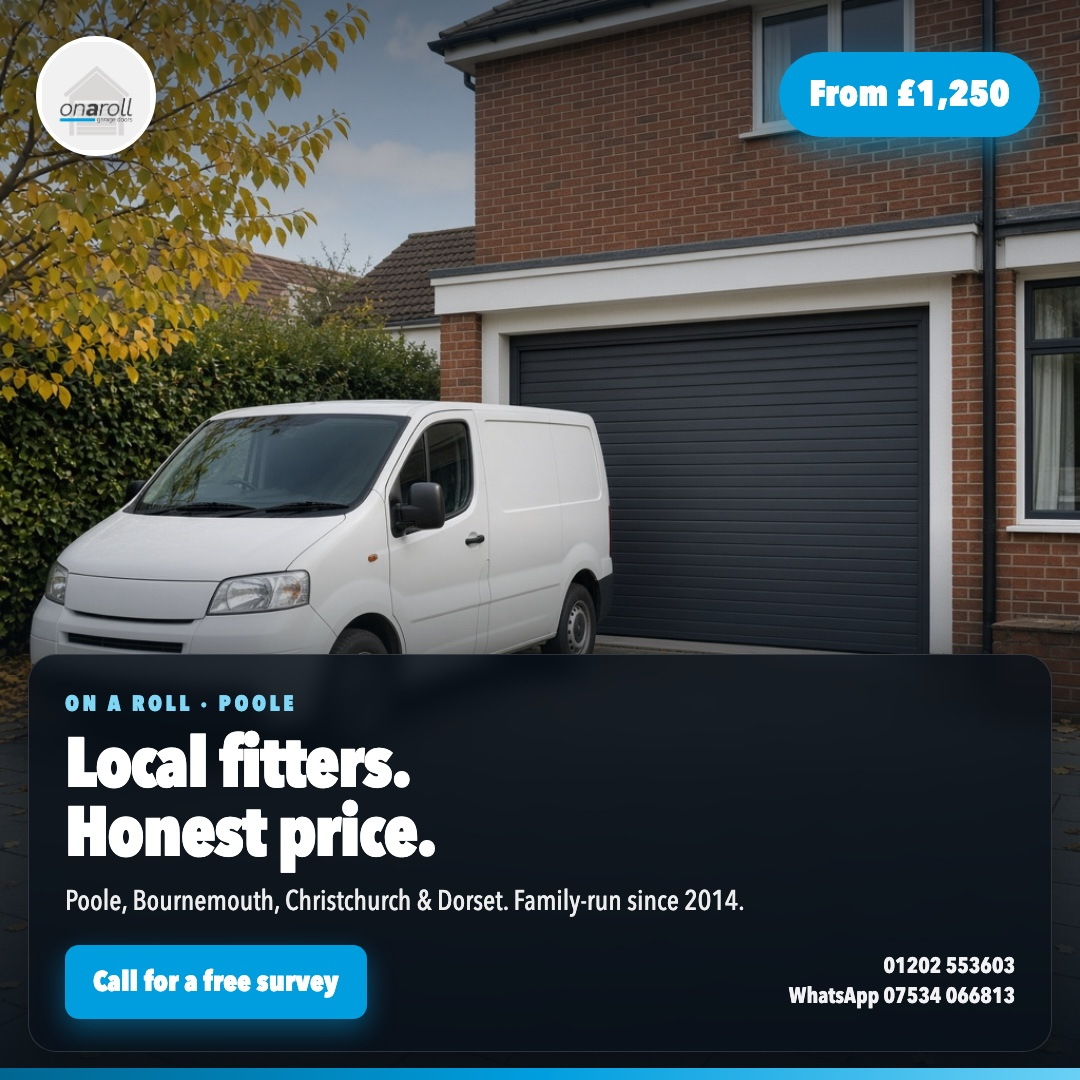
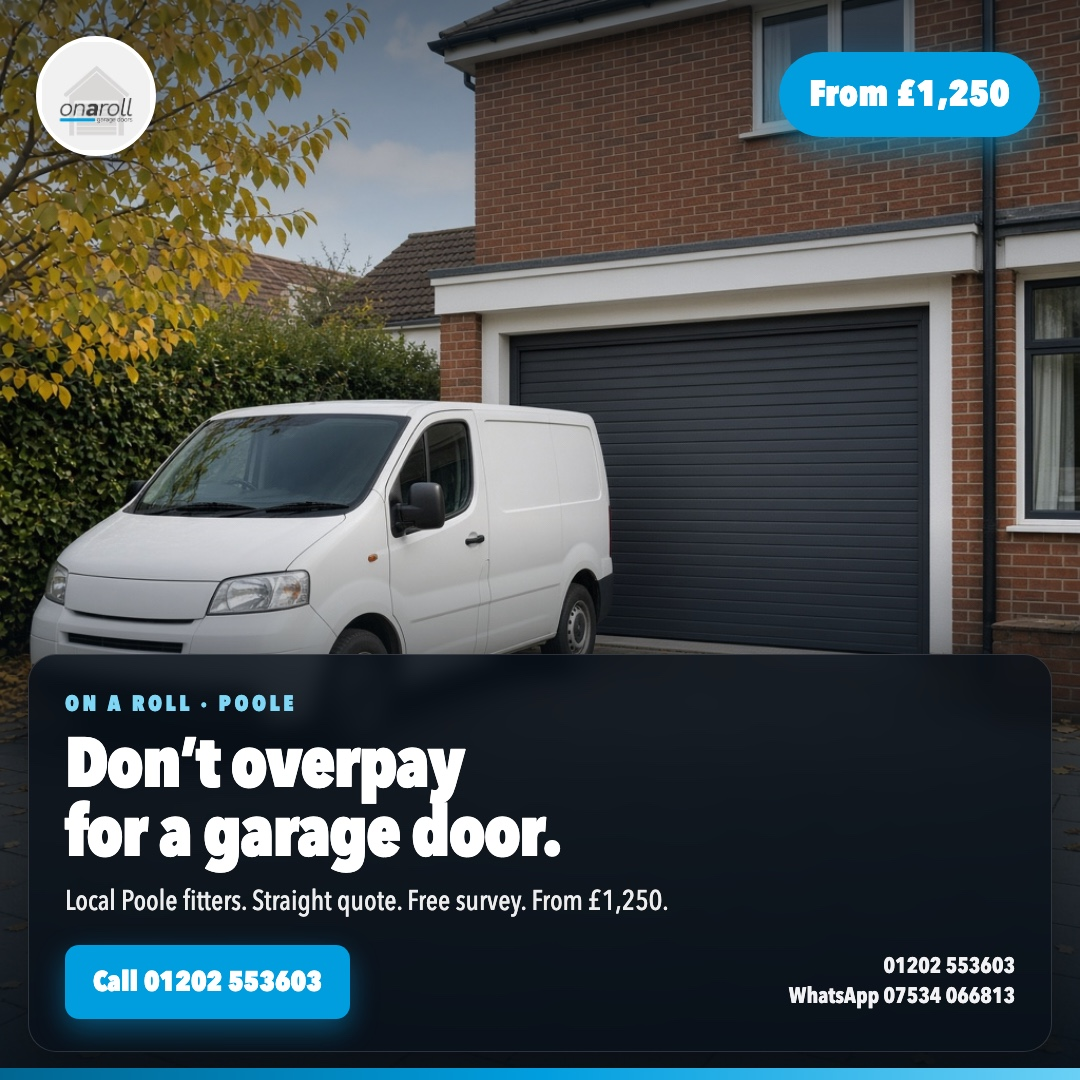
Punchier sales headlines on branded creatives

Changed region(s): [[0.0611, 0.6722, 0.7028, 0.9472]]

diff --git a/APPROVAL-BOARD.html b/APPROVAL-BOARD.html
@@ -42,13 +42,13 @@
     </div>
 
     <article>
-      <div class="shot"><img src="OAR-SM-001.jpg?v=sell2" alt="Upgrade your garage door" /></div>
+      <div class="shot"><img src="OAR-SM-001.jpg?v=punch1" alt="Upgrade your garage door" /></div>
       <div class="body">
         <div class="label-row"><div><div class="id">OAR-SM-001</div><div class="day">Monday</div></div><span class="status">Awaiting approval</span></div>
-        <h2>Upgrade your garage door.</h2>
+        <h2>Stop living with that door.</h2>
         <p class="goal">Sell the upgrade · free survey</p>
         <p class="section">Caption</p>
-        <pre>Upgrade your garage door — from £1,250.
+        <pre>Stop living with that door — from £1,250.
 
 Made-to-measure insulated aluminium rollers fitted across Poole, Bournemouth, Christchurch and Dorset. Tidy half-day install. Old door recycled. Many doors carry a 5-year warranty.
 
@@ -64,13 +64,13 @@ On A Roll Garage Doors — family-run in Poole since 2014.</pre>
     </article>
 
     <article>
-      <div class="shot"><img src="OAR-SM-002.jpg?v=sell2" alt="Secure it. Remote it." /></div>
+      <div class="shot"><img src="OAR-SM-002.jpg?v=punch1" alt="Your garage is an open invite." /></div>
       <div class="body">
         <div class="label-row"><div><div class="id">OAR-SM-002</div><div class="day">Wednesday</div></div><span class="status">Awaiting approval</span></div>
-        <h2>Secure it. Remote it.</h2>
+        <h2>Your garage is an open invite.</h2>
         <p class="goal">Security hook · advice / quote</p>
         <p class="section">Caption</p>
-        <pre>Secure it. Remote it. From £1,250.
+        <pre>Your garage is an open invite. From £1,250.
 
 Older garage doors are often the easiest way into the house. A modern electric roller locks into the side guides and opens with a remote — no outside handle to force.
 
@@ -85,13 +85,13 @@ On A Roll Garage Doors · Poole
     </article>
 
     <article>
-      <div class="shot"><img src="OAR-SM-003.jpg?v=sell2" alt="Local fitters. Honest price." /></div>
+      <div class="shot"><img src="OAR-SM-003.jpg?v=punch1" alt="Don’t overpay for a garage door." /></div>
       <div class="body">
         <div class="label-row"><div><div class="id">OAR-SM-003</div><div class="day">Friday</div></div><span class="status">Awaiting approval</span></div>
-        <h2>Local fitters. Honest price.</h2>
+        <h2>Don’t overpay for a garage door.</h2>
         <p class="goal">This-week calls · free survey</p>
         <p class="section">Caption</p>
-        <pre>Local fitters. Honest price. From £1,250.
+        <pre>Don’t overpay for a garage door. From £1,250.
 
 On A Roll supply, install and repair garage doors across Poole, Bournemouth, Christchurch and Dorset. Typical fit about half a day. Old door recycled. Many doors with a 5-year warranty.
 

diff --git a/index.html b/index.html
@@ -42,13 +42,13 @@
     </div>
 
     <article>
-      <div class="shot"><img src="OAR-SM-001.jpg?v=sell2" alt="Upgrade your garage door" /></div>
+      <div class="shot"><img src="OAR-SM-001.jpg?v=punch1" alt="Upgrade your garage door" /></div>
       <div class="body">
         <div class="label-row"><div><div class="id">OAR-SM-001</div><div class="day">Monday</div></div><span class="status">Awaiting approval</span></div>
-        <h2>Upgrade your garage door.</h2>
+        <h2>Stop living with that door.</h2>
         <p class="goal">Sell the upgrade · free survey</p>
         <p class="section">Caption</p>
-        <pre>Upgrade your garage door — from £1,250.
+        <pre>Stop living with that door — from £1,250.
 
 Made-to-measure insulated aluminium rollers fitted across Poole, Bournemouth, Christchurch and Dorset. Tidy half-day install. Old door recycled. Many doors carry a 5-year warranty.
 
@@ -64,13 +64,13 @@ On A Roll Garage Doors — family-run in Poole since 2014.</pre>
     </article>
 
     <article>
-      <div class="shot"><img src="OAR-SM-002.jpg?v=sell2" alt="Secure it. Remote it." /></div>
+      <div class="shot"><img src="OAR-SM-002.jpg?v=punch1" alt="Your garage is an open invite." /></div>
       <div class="body">
         <div class="label-row"><div><div class="id">OAR-SM-002</div><div class="day">Wednesday</div></div><span class="status">Awaiting approval</span></div>
-        <h2>Secure it. Remote it.</h2>
+        <h2>Your garage is an open invite.</h2>
         <p class="goal">Security hook · advice / quote</p>
         <p class="section">Caption</p>
-        <pre>Secure it. Remote it. From £1,250.
+        <pre>Your garage is an open invite. From £1,250.
 
 Older garage doors are often the easiest way into the house. A modern electric roller locks into the side guides and opens with a remote — no outside handle to force.
 
@@ -85,13 +85,13 @@ On A Roll Garage Doors · Poole
     </article>
 
     <article>
-      <div class="shot"><img src="OAR-SM-003.jpg?v=sell2" alt="Local fitters. Honest price." /></div>
+      <div class="shot"><img src="OAR-SM-003.jpg?v=punch1" alt="Don’t overpay for a garage door." /></div>
       <div class="body">
         <div class="label-row"><div><div class="id">OAR-SM-003</div><div class="day">Friday</div></div><span class="status">Awaiting approval</span></div>
-        <h2>Local fitters. Honest price.</h2>
+        <h2>Don’t overpay for a garage door.</h2>
         <p class="goal">This-week calls · free survey</p>
         <p class="section">Caption</p>
-        <pre>Local fitters. Honest price. From £1,250.
+        <pre>Don’t overpay for a garage door. From £1,250.
 
 On A Roll supply, install and repair garage doors across Poole, Bournemouth, Christchurch and Dorset. Typical fit about half a day. Old door recycled. Many doors with a 5-year warranty.
 
